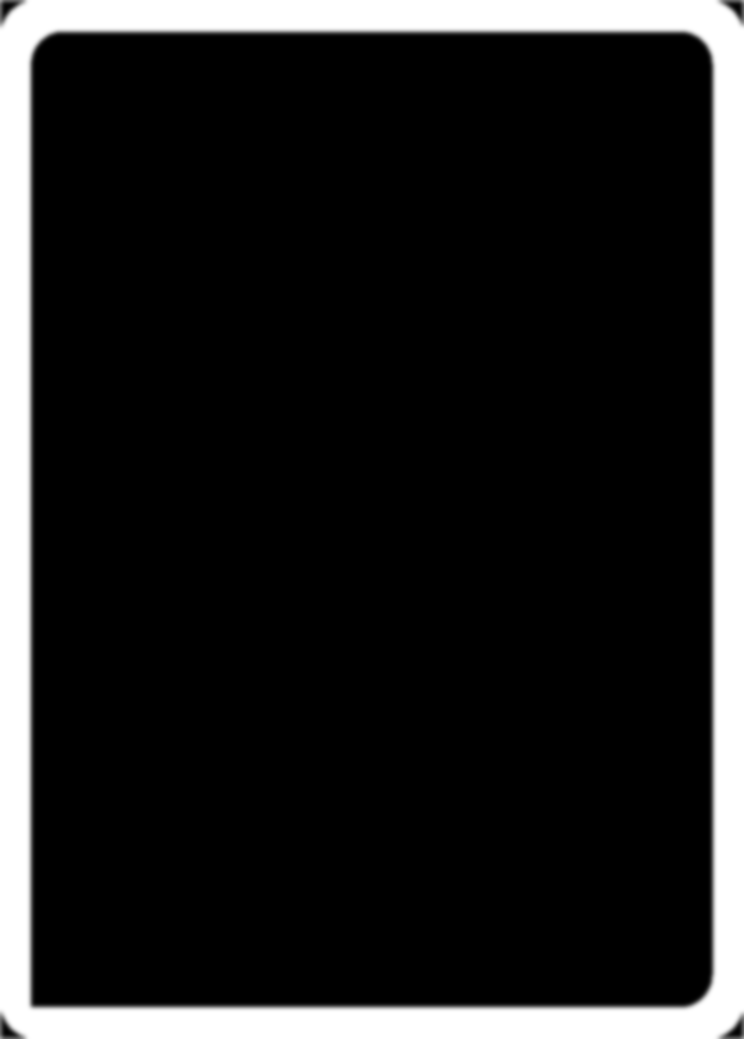
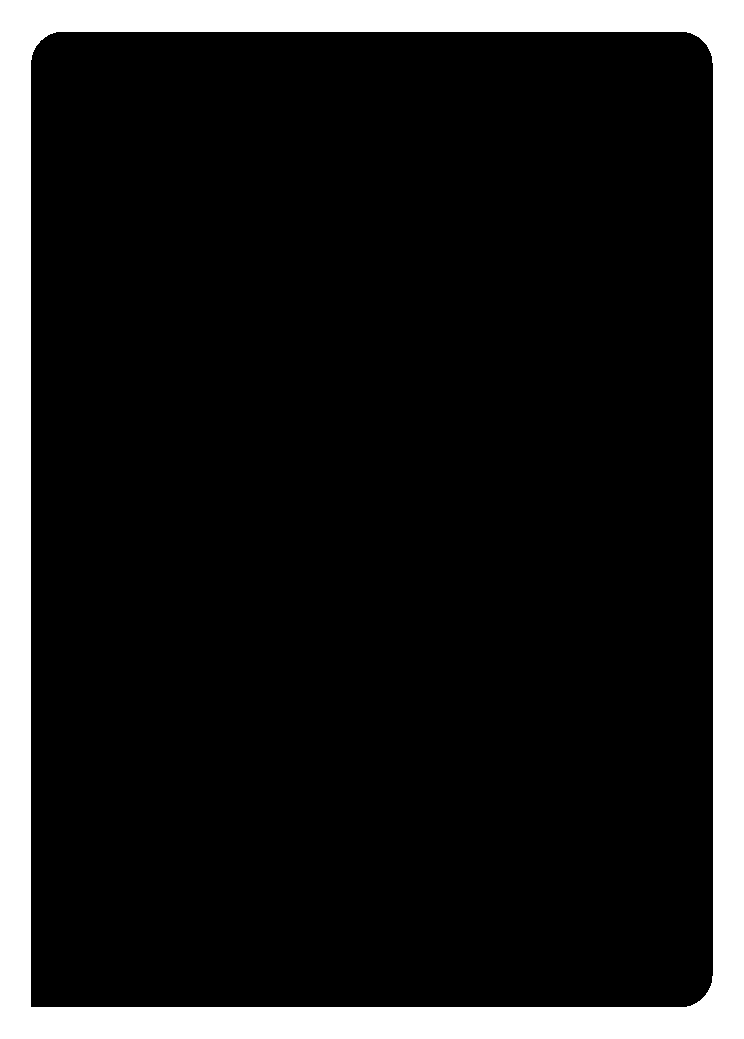
feat: improve masks

diff --git a/white_border.py b/white_border.py
@@ -3,7 +3,8 @@
 
 Given a Scryfall card link (https://scryfall.com/card/<set>/<collector-number>/<slug>),
 downloads the card's png image and applies a border mask, painting the mask
-region white.
+region white. The link only identifies the card: its oldest printing is used,
+except that Alpha (lea) is skipped in favor of Beta (leb).
 
 Masks live in ./masks (override with --masks-dir) and are generated from
 CardConjurer frame-pack assets by make_masks.py - CardConjurer isolates the
@@ -17,12 +18,16 @@ and to legendary cards (crown excluded). Naming:
     masks/default.png           last-resort fallback
 
 <key> comes from the card's layout (planeswalker/saga/modal/battle) or its
-Scryfall frame year (1993, 1997, 2003, 2015, 2019->2015, future). A mask may be
+Scryfall frame year (1993, 1997, 2003, 2015, 2019->2015, future); the
+_legendary variant is used when the printing's frame_effects contain
+"legendary" (old frames render no crown, so the type line alone is not a
+reliable signal). A mask may be
 any size; it is resized (bilinear) to the card image and its grayscale values
 are used directly as per-pixel blend weights for the white paint, multiplied
 by the card's alpha mask so the rounded corners stay clean. Blur the masks
 with blur_mask.py first and the border edge comes out soft instead of hard.
-Every face of a double-faced card is processed.
+Every face of a double-faced card is processed (adventures count as
+single-faced: their two card_faces share the card's one image).
 
 Usage:
     white_border.py <scryfall-url> [-o OUTPUT] [--masks-dir DIR] [--face N]
@@ -124,6 +129,9 @@ def oldest_printing(card):
 
 
 def card_faces(card):
+    if (card.get("layout") or "").lower() == "adventure":
+        # adventures list two card_faces but share the card's single image
+        return [card]
     return card.get("card_faces") or [card]
 
 
@@ -165,6 +173,8 @@ def mask_keys(card, face):
     effects = {str(e).lower() for e in (card.get("frame_effects") or []) + (face.get("frame_effects") or [])}
     if set == "leb":
         base = "leb"
+    elif "spree" in effects:
+        base = "spree"
     elif layout == "planeswalker" or "planeswalker" in tl:
         base = "planeswalker"
     elif layout == "saga" or "saga" in tl:
@@ -173,7 +183,7 @@ def mask_keys(card, face):
         # check before modal_dfc/transform: MOM-style battles report
         # layout "transform" but have "Battle" in their type line
         base = "battle"
-    elif layout in ("modal_dfc", "transform", "meld"):
+    elif layout == "modal_dfc":
         base = "modal"
     else:
         base = FRAME_ALIASES.get(frame, frame)
@@ -200,7 +210,6 @@ def load_border_mask(keys, w, h, masks_dir):
 # ------------------------------------------------------------------ pipeline
 
 def process_face(face, card, masks_dir, out_path):
-    # adventure cards keep image_uris on the card object, not on card_faces[0]
     uris = face.get("image_uris") or card.get("image_uris") or {}
     png_url = uris.get("png")
     if not png_url:

diff --git a/blur_mask.py b/blur_mask.py
@@ -32,6 +32,8 @@ def blur_image(src, dst, radius):
     img = Image.open(src)
     if img.mode == "P":  # palette images don't filter well; keep transparency
         img = img.convert("RGBA")
+    elif img.mode == "1":  # 1-bit bilevel: GaussianBlur needs a grayscale image
+        img = img.convert("L")
     blurred = img.filter(ImageFilter.GaussianBlur(radius))
     blurred.save(dst)
     return img.size, img.mode
